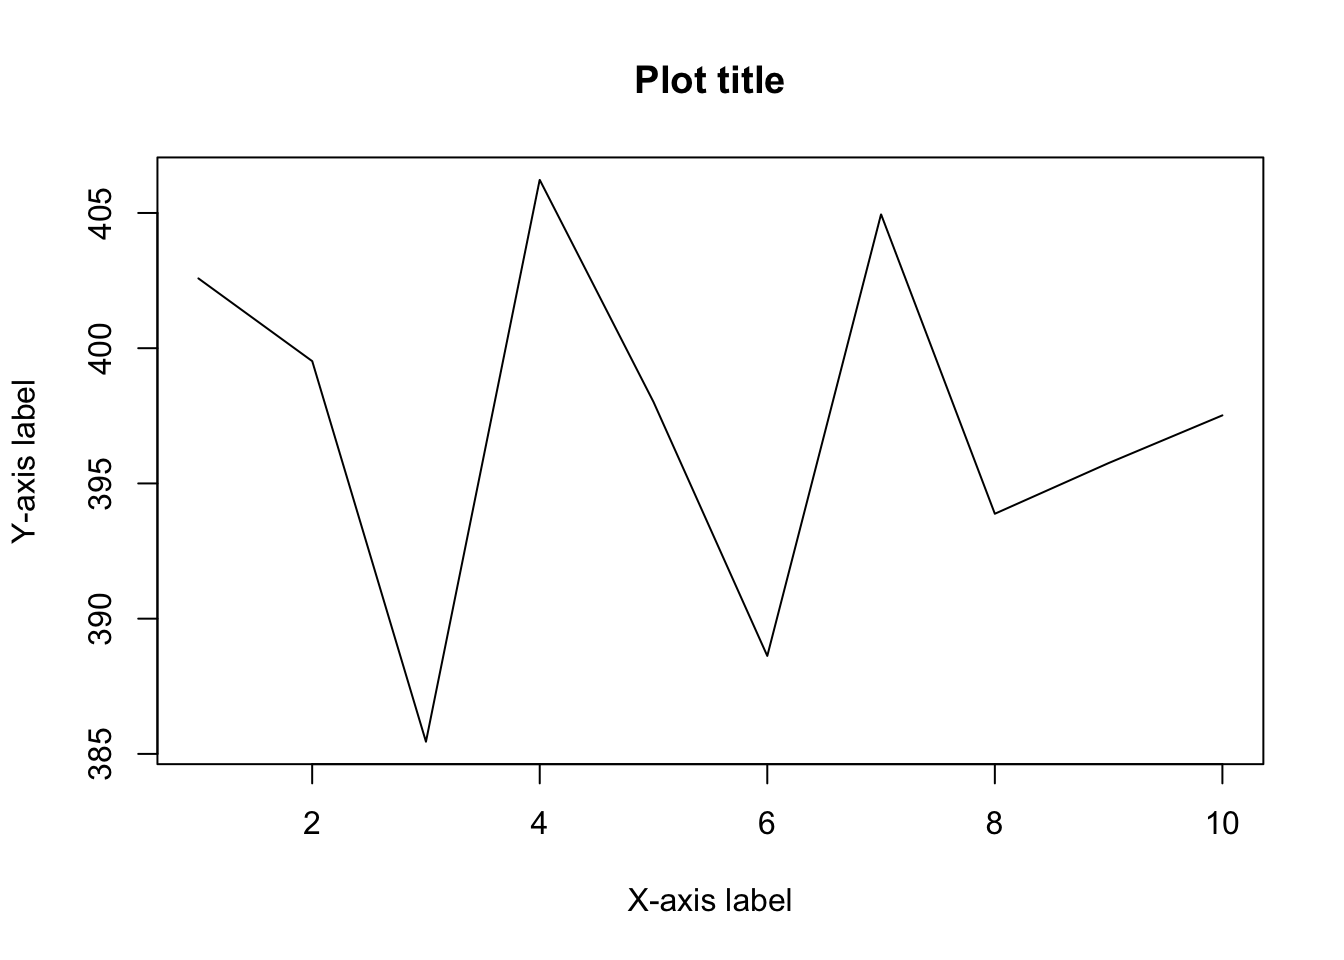
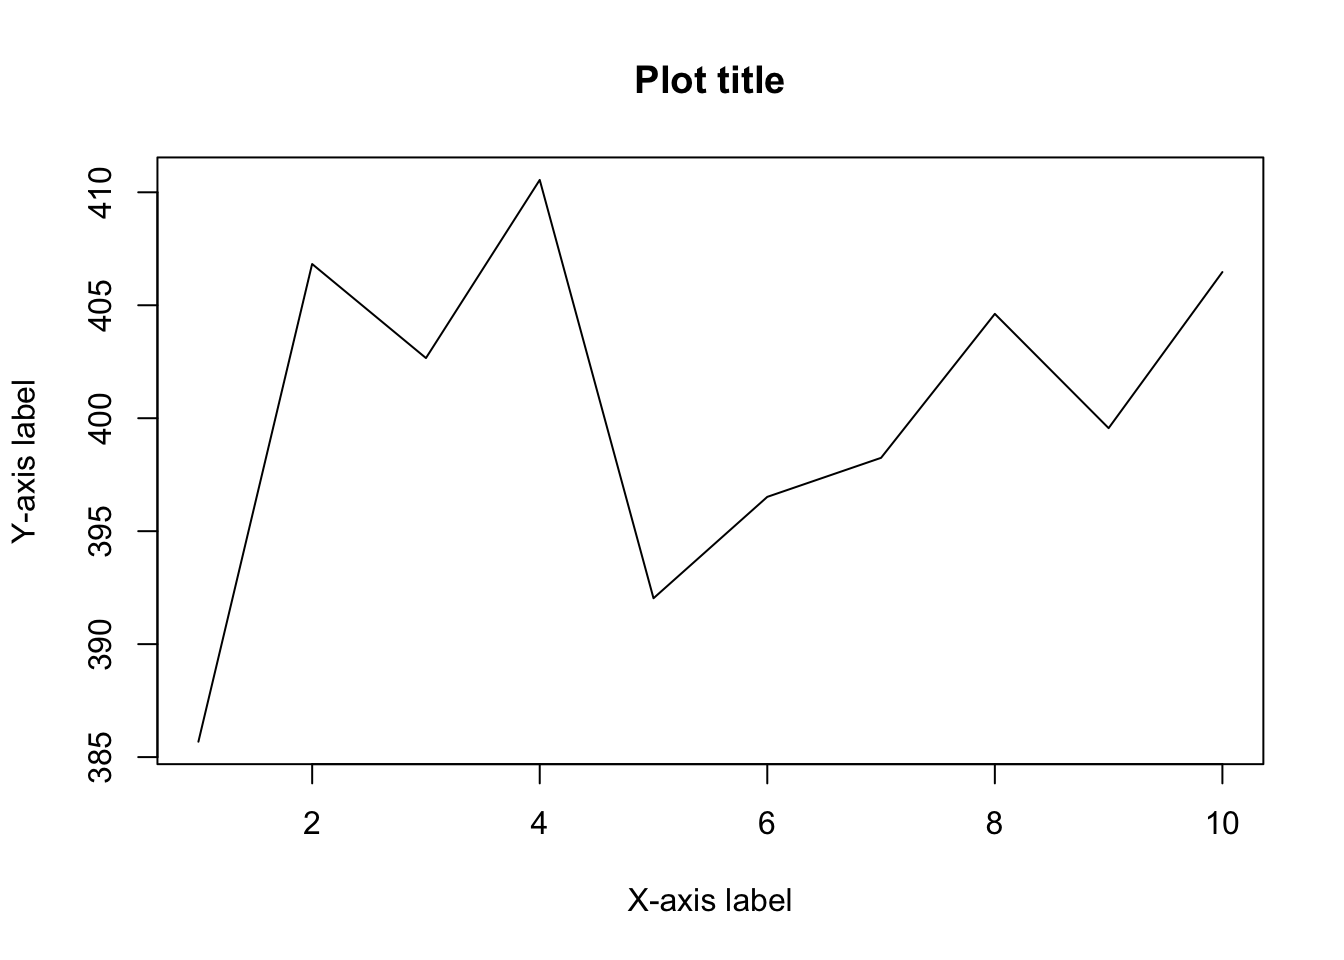
edit post

diff --git a/content/blog/how-to-install-r-and-rstudio.html b/content/blog/how-to-install-r-and-rstudio.html
@@ -61,41 +61,35 @@ output:
 <li>The environment (green pane)</li>
 <li>Files, plots, help, etc. (blue pane)</li>
 </ol>
-<div class="figure">
+<center>
 <img src="/blog/how-to-install-r-and-rstudio_files/R%20Studio.png" alt="RStudio window" />
-<p class="caption">RStudio window</p>
-</div>
+</center>
 <p>The console (red pane) is where you can execute your code (more information on the red and blue panes later). By default, the text editor does not open automatically. To open it, click on File &gt; New File &gt; R Script or click on the button representing a white sheet marked with a small green cross in the upper left corner, then on R Script:</p>
-<div class="figure">
+<center>
 <img src="/blog/how-to-install-r-and-rstudio_files/open_text_editor.png" alt="New R script in RStudio" />
-<p class="caption">New R script in RStudio</p>
-</div>
+</center>
 <p>A new pane (in orange below), also known as the text editor, opens in which you will be able to write your code. The code will be executed and the results displayed in the console (red pane).</p>
-<div class="figure">
+<center>
 <img src="/blog/how-to-install-r-and-rstudio_files/text_editor.png" alt="Write and execute your code in RStudio" />
-<p class="caption">Write and execute your code in RStudio</p>
-</div>
+</center>
 <p>Note that you can also write code in the console (red pane). However, I strongly recommend writing your code in the text editor (orange pane) because you can save the code written in the text editor (and thus execute it again later), while you cannot save the code written in the console.</p>
 <p>To execute code written in the text editor (orange pane), you have two options:</p>
 <ul>
 <li>Type your code and then press the “Run” button (see below) or use the keyboard shortcut CTRL + Enter (cmd + Enter on Mac). <strong>Only the chunk</strong> of code where your cursor is located will then be executed.</li>
 <li>Type your code and select in the text editor the part you want to execute and then press the “Run” button or use the keyboard shortcut CTRL + Enter (cmd + Enter on Mac). All the <strong>selected</strong> code will be executed</li>
 </ul>
-<div class="figure">
+<center>
 <img src="/blog/how-to-install-r-and-rstudio_files/run.png" alt="Run code in RStudio" />
-<p class="caption">Run code in RStudio</p>
-</div>
+</center>
 <p>For example, try typing <code>1+1</code> in the text editor and execute it by clicking on “Run” (or CTRL/cmd + Enter). You should see the result <code>2</code> in the console, as shown in the screenshot below:</p>
-<div class="figure">
+<center>
 <img src="/blog/how-to-install-r-and-rstudio_files/example%20of%20code%20executed%20in%20RStudio.png" alt="Example of code executed in RStudio" />
-<p class="caption">Example of code executed in RStudio</p>
-</div>
+</center>
 <p>The text editor and the console are the panes you will use most ofen. The two other panes (the blue and green panes introduced earlier) will however still be very useful when using RStudio.</p>
 <p>The environment (green pane) displays all values stored by RStudio. For example, if you type and execute the code <code>a = 1</code>, RStudio will store the value <code>1</code> for <code>a</code>, as shown in the screenshot below:</p>
-<div class="figure">
+<center>
 <img src="/blog/how-to-install-r-and-rstudio_files/environment%20pane%20in%20RStudio2.png" alt="Environment pane in RStudio" />
-<p class="caption">Environment pane in RStudio</p>
-</div>
+</center>
 <p>This means that you can now perform any computations with <code>a</code>, such that if you execute <code>a + 1</code>, RStudio will render <code>2</code> in the console. In this pane you can also see a tab with a history of the code executed and a button to import a dataset (more on <a href="/blog/how-to-import-an-excel-file-in-rstudio/">importing a dataset in RStudio</a>).</p>
 <p>The last pane (blue) is where you will find everything else such as your files, the plots, the packages, the help documentation, etc. I discuss about the Files tab in more details <a href="/blog/how-to-import-an-excel-file-in-rstudio/">here</a> so let’s discuss about the other tabs:</p>
 <ul>
@@ -103,22 +97,18 @@ output:
 <li>Packages: where you see all your installed packages. Only fundamental functionalities come with R. Everything else must be installed from packages. Remind that RStudio is open source; everyone can write code and publish it as a package. You are then able to use this package (and all functions built inside this package) for free. Some packages are installed by default, all others must be installed by running <code>install.packages(&quot;name of the package&quot;)</code> (do not forget <code>&quot;&quot;</code> around the name of the package!). Once the package is installed, you must load the package and only after it has been loaded you can use all the functions it contains. To load a package, run <code>library(name of the package)</code> (this time <code>&quot;&quot;</code> around the name of the package are not needed, but can still be used if you wish). You also have the possibility to install and load packages via the buttons under the Packages tab. For this, click on the button Install under Packages, type the name of the package you want to install and then click on Install. You will see that the code appears in the console. To load the package, find the package you want to load in the Packages window (you can use the search box), then click on the checkbox next to the name of the package. Again, the code is run in the console. See the figures below if needed. Note that you will need to install packages <strong>only once</strong>,<a href="#fn1" class="footnote-ref" id="fnref1"><sup>1</sup></a> but load packages <strong>each time</strong> you open RStudio. Furthermore, note that an internet connection is required to install a package, while it is not required to load a package</li>
 <li>Help: documentation about all functions written for R. To access the help of a function, run <code>help(&quot;name of the function&quot;)</code> or simply <code>?name of the function</code>. For example, to see the help about the mean function, run <code>?mean</code>. You can also press F1 while having your cursor on a function</li>
 </ul>
-<div class="figure">
+<center>
 <img src="/blog/how-to-install-r-and-rstudio_files/plot-buttons-rstudio.png" alt="Plot buttons in RStudio" />
-<p class="caption">Plot buttons in RStudio</p>
-</div>
-<div class="figure">
+</center>
+<center>
 <img src="/blog/how-to-install-r-and-rstudio_files/install-packages-rstudio1.png" alt="Step 1: click on the Install button" />
-<p class="caption">Step 1: click on the Install button</p>
-</div>
-<div class="figure">
+</center>
+<center>
 <img src="/blog/how-to-install-r-and-rstudio_files/install-packages-rstudio2.png" alt="Step 2: type the name of the package and click on Install" />
-<p class="caption">Step 2: type the name of the package and click on Install</p>
-</div>
-<div class="figure">
+</center>
+<center>
 <img src="/blog/how-to-install-r-and-rstudio_files/install-packages-rstudio3.png" alt="Step 3: load your package by clicking on the box next to the package’s name" />
-<p class="caption">Step 3: load your package by clicking on the box next to the package’s name</p>
-</div>
+</center>
 </div>
 <div id="examples-of-code" class="section level1">
 <h1>Examples of code</h1>
@@ -186,10 +176,10 @@ my_mat2</code></pre>
 <pre class="r"><code>my_vec &lt;- rnorm(10, mean = 400, sd = 10)
 # Display only the first 5 values:
 head(my_vec, 5)</code></pre>
-<pre><code>## [1] 402.5808 399.5225 385.4514 406.2221 398.0123</code></pre>
+<pre><code>## [1] 385.6822 406.8244 402.6629 410.5479 392.0310</code></pre>
 <pre class="r"><code># Display only the last 5 values:
 tail(my_vec, 5)</code></pre>
-<pre><code>## [1] 388.6227 404.9453 393.8786 395.7530 397.5172</code></pre>
+<pre><code>## [1] 396.5186 398.2466 404.6187 399.5605 406.4687</code></pre>
 <p>You will have different values than mines due to the fact that they are randomly generated. If you want to make sure to have always the same random values, use <code>set.seed()</code> (with any numeric inside the brackets). For instance, with the following code, you should have the exact same values, no matter where and when you run it:</p>
 <pre class="r"><code>set.seed(42)
 rnorm(3, mean = 10, sd = 2)</code></pre>

diff --git a/public/blog/how-to-install-r-and-rstudio/index.html b/public/blog/how-to-install-r-and-rstudio/index.html
@@ -198,41 +198,35 @@
 <li>The environment (green pane)</li>
 <li>Files, plots, help, etc. (blue pane)</li>
 </ol>
-<div class="figure">
+<center>
 <img src="/blog/how-to-install-r-and-rstudio_files/R%20Studio.png" alt="RStudio window" />
-<p class="caption">RStudio window</p>
-</div>
+</center>
 <p>The console (red pane) is where you can execute your code (more information on the red and blue panes later). By default, the text editor does not open automatically. To open it, click on File &gt; New File &gt; R Script or click on the button representing a white sheet marked with a small green cross in the upper left corner, then on R Script:</p>
-<div class="figure">
+<center>
 <img src="/blog/how-to-install-r-and-rstudio_files/open_text_editor.png" alt="New R script in RStudio" />
-<p class="caption">New R script in RStudio</p>
-</div>
+</center>
 <p>A new pane (in orange below), also known as the text editor, opens in which you will be able to write your code. The code will be executed and the results displayed in the console (red pane).</p>
-<div class="figure">
+<center>
 <img src="/blog/how-to-install-r-and-rstudio_files/text_editor.png" alt="Write and execute your code in RStudio" />
-<p class="caption">Write and execute your code in RStudio</p>
-</div>
+</center>
 <p>Note that you can also write code in the console (red pane). However, I strongly recommend writing your code in the text editor (orange pane) because you can save the code written in the text editor (and thus execute it again later), while you cannot save the code written in the console.</p>
 <p>To execute code written in the text editor (orange pane), you have two options:</p>
 <ul>
 <li>Type your code and then press the “Run” button (see below) or use the keyboard shortcut CTRL + Enter (cmd + Enter on Mac). <strong>Only the chunk</strong> of code where your cursor is located will then be executed.</li>
 <li>Type your code and select in the text editor the part you want to execute and then press the “Run” button or use the keyboard shortcut CTRL + Enter (cmd + Enter on Mac). All the <strong>selected</strong> code will be executed</li>
 </ul>
-<div class="figure">
+<center>
 <img src="/blog/how-to-install-r-and-rstudio_files/run.png" alt="Run code in RStudio" />
-<p class="caption">Run code in RStudio</p>
-</div>
+</center>
 <p>For example, try typing <code>1+1</code> in the text editor and execute it by clicking on “Run” (or CTRL/cmd + Enter). You should see the result <code>2</code> in the console, as shown in the screenshot below:</p>
-<div class="figure">
+<center>
 <img src="/blog/how-to-install-r-and-rstudio_files/example%20of%20code%20executed%20in%20RStudio.png" alt="Example of code executed in RStudio" />
-<p class="caption">Example of code executed in RStudio</p>
-</div>
+</center>
 <p>The text editor and the console are the panes you will use most ofen. The two other panes (the blue and green panes introduced earlier) will however still be very useful when using RStudio.</p>
 <p>The environment (green pane) displays all values stored by RStudio. For example, if you type and execute the code <code>a = 1</code>, RStudio will store the value <code>1</code> for <code>a</code>, as shown in the screenshot below:</p>
-<div class="figure">
+<center>
 <img src="/blog/how-to-install-r-and-rstudio_files/environment%20pane%20in%20RStudio2.png" alt="Environment pane in RStudio" />
-<p class="caption">Environment pane in RStudio</p>
-</div>
+</center>
 <p>This means that you can now perform any computations with <code>a</code>, such that if you execute <code>a + 1</code>, RStudio will render <code>2</code> in the console. In this pane you can also see a tab with a history of the code executed and a button to import a dataset (more on <a href="/blog/how-to-import-an-excel-file-in-rstudio/">importing a dataset in RStudio</a>).</p>
 <p>The last pane (blue) is where you will find everything else such as your files, the plots, the packages, the help documentation, etc. I discuss about the Files tab in more details <a href="/blog/how-to-import-an-excel-file-in-rstudio/">here</a> so let’s discuss about the other tabs:</p>
 <ul>
@@ -240,22 +234,18 @@
 <li>Packages: where you see all your installed packages. Only fundamental functionalities come with R. Everything else must be installed from packages. Remind that RStudio is open source; everyone can write code and publish it as a package. You are then able to use this package (and all functions built inside this package) for free. Some packages are installed by default, all others must be installed by running <code>install.packages(&quot;name of the package&quot;)</code> (do not forget <code>&quot;&quot;</code> around the name of the package!). Once the package is installed, you must load the package and only after it has been loaded you can use all the functions it contains. To load a package, run <code>library(name of the package)</code> (this time <code>&quot;&quot;</code> around the name of the package are not needed, but can still be used if you wish). You also have the possibility to install and load packages via the buttons under the Packages tab. For this, click on the button Install under Packages, type the name of the package you want to install and then click on Install. You will see that the code appears in the console. To load the package, find the package you want to load in the Packages window (you can use the search box), then click on the checkbox next to the name of the package. Again, the code is run in the console. See the figures below if needed. Note that you will need to install packages <strong>only once</strong>,<a href="#fn1" class="footnote-ref" id="fnref1"><sup>1</sup></a> but load packages <strong>each time</strong> you open RStudio. Furthermore, note that an internet connection is required to install a package, while it is not required to load a package</li>
 <li>Help: documentation about all functions written for R. To access the help of a function, run <code>help(&quot;name of the function&quot;)</code> or simply <code>?name of the function</code>. For example, to see the help about the mean function, run <code>?mean</code>. You can also press F1 while having your cursor on a function</li>
 </ul>
-<div class="figure">
+<center>
 <img src="/blog/how-to-install-r-and-rstudio_files/plot-buttons-rstudio.png" alt="Plot buttons in RStudio" />
-<p class="caption">Plot buttons in RStudio</p>
-</div>
-<div class="figure">
+</center>
+<center>
 <img src="/blog/how-to-install-r-and-rstudio_files/install-packages-rstudio1.png" alt="Step 1: click on the Install button" />
-<p class="caption">Step 1: click on the Install button</p>
-</div>
-<div class="figure">
+</center>
+<center>
 <img src="/blog/how-to-install-r-and-rstudio_files/install-packages-rstudio2.png" alt="Step 2: type the name of the package and click on Install" />
-<p class="caption">Step 2: type the name of the package and click on Install</p>
-</div>
-<div class="figure">
+</center>
+<center>
 <img src="/blog/how-to-install-r-and-rstudio_files/install-packages-rstudio3.png" alt="Step 3: load your package by clicking on the box next to the package’s name" />
-<p class="caption">Step 3: load your package by clicking on the box next to the package’s name</p>
-</div>
+</center>
 </div>
 <div id="examples-of-code" class="section level1">
 <h1>Examples of code</h1>
@@ -323,10 +313,10 @@ my_mat2</code></pre>
 <pre class="r"><code>my_vec &lt;- rnorm(10, mean = 400, sd = 10)
 # Display only the first 5 values:
 head(my_vec, 5)</code></pre>
-<pre><code>## [1] 402.5808 399.5225 385.4514 406.2221 398.0123</code></pre>
+<pre><code>## [1] 385.6822 406.8244 402.6629 410.5479 392.0310</code></pre>
 <pre class="r"><code># Display only the last 5 values:
 tail(my_vec, 5)</code></pre>
-<pre><code>## [1] 388.6227 404.9453 393.8786 395.7530 397.5172</code></pre>
+<pre><code>## [1] 396.5186 398.2466 404.6187 399.5605 406.4687</code></pre>
 <p>You will have different values than mines due to the fact that they are randomly generated. If you want to make sure to have always the same random values, use <code>set.seed()</code> (with any numeric inside the brackets). For instance, with the following code, you should have the exact same values, no matter where and when you run it:</p>
 <pre class="r"><code>set.seed(42)
 rnorm(3, mean = 10, sd = 2)</code></pre>

diff --git a/content/blog/do-my-data-follow-a-normal-distribution-a-note-on-the-most-widely-used-distribution-and-how-to-test-for-normality-in-r.html b/content/blog/do-my-data-follow-a-normal-distribution-a-note-on-the-most-widely-used-distribution-and-how-to-test-for-normality-in-r.html
@@ -75,7 +75,7 @@ bibliography: bibliography.bib
 </ol>
 <p>We actually look for the shaded area in the following figure:</p>
 <center>
-<img src="/blog/do-my-data-follow-a-normal-distribution-a-note-on-the-most-widely-used-distribution-and-how-to-test-for-normality-in-r_files/Screenshot%202020-01-30%20at%2014.18.54.png" alt="Standard normal distribution: P(Z &gt; 1)" />
+<img src="/blog/do-my-data-follow-a-normal-distribution-a-note-on-the-most-widely-used-distribution-and-how-to-test-for-normality-in-r_files/Screenshot%202020-01-30%20at%2014.18.54.png" alt="Standard normal distribution: P(Z &gt; 1)" style="width:100.0%" />
 </center>
 <p><strong>In R:</strong></p>
 <pre class="r"><code>pnorm(1,
@@ -89,7 +89,7 @@ bibliography: bibliography.bib
 </ol>
 <p>We are looking for the shaded area in the following figure:</p>
 <center>
-<img src="/blog/do-my-data-follow-a-normal-distribution-a-note-on-the-most-widely-used-distribution-and-how-to-test-for-normality-in-r_files/Screenshot%202020-01-30%20at%2014.19.14.png" alt="Standard normal distribution: P(−1 \le Z \le 1)" />
+<img src="/blog/do-my-data-follow-a-normal-distribution-a-note-on-the-most-widely-used-distribution-and-how-to-test-for-normality-in-r_files/Screenshot%202020-01-30%20at%2014.19.14.png" alt="Standard normal distribution: P(−1 \le Z \le 1)" style="width:100.0%" />
 </center>
 <p><strong>In R:</strong></p>
 <pre class="r"><code>pnorm(1, lower.tail = TRUE) - pnorm(-1, lower.tail = TRUE)</code></pre>
@@ -100,7 +100,7 @@ bibliography: bibliography.bib
 </ol>
 <p>We are looking for the shaded area in the following figure:</p>
 <center>
-<img src="/blog/do-my-data-follow-a-normal-distribution-a-note-on-the-most-widely-used-distribution-and-how-to-test-for-normality-in-r_files/Screenshot%202020-01-30%20at%2014.19.46.png" alt="Standard normal distribution: P(0 \le Z \le 1.37)" />
+<img src="/blog/do-my-data-follow-a-normal-distribution-a-note-on-the-most-widely-used-distribution-and-how-to-test-for-normality-in-r_files/Screenshot%202020-01-30%20at%2014.19.46.png" alt="Standard normal distribution: P(0 \le Z \le 1.37)" style="width:100.0%" />
 </center>
 <p><strong>In R:</strong></p>
 <pre class="r"><code>pnorm(0, lower.tail = FALSE) - pnorm(1.37, lower.tail = FALSE)</code></pre>

diff --git a/public/blog/do-my-data-follow-a-normal-distribution-a-note-on-the-most-widely-used-distribution-and-how-to-test-for-normality-in-r/index.html b/public/blog/do-my-data-follow-a-normal-distribution-a-note-on-the-most-widely-used-distribution-and-how-to-test-for-normality-in-r/index.html
@@ -212,7 +212,7 @@
 </ol>
 <p>We actually look for the shaded area in the following figure:</p>
 <center>
-<img src="/blog/do-my-data-follow-a-normal-distribution-a-note-on-the-most-widely-used-distribution-and-how-to-test-for-normality-in-r_files/Screenshot%202020-01-30%20at%2014.18.54.png" alt="Standard normal distribution: P(Z &gt; 1)" />
+<img src="/blog/do-my-data-follow-a-normal-distribution-a-note-on-the-most-widely-used-distribution-and-how-to-test-for-normality-in-r_files/Screenshot%202020-01-30%20at%2014.18.54.png" alt="Standard normal distribution: P(Z &gt; 1)" style="width:100.0%" />
 </center>
 <p><strong>In R:</strong></p>
 <pre class="r"><code>pnorm(1,
@@ -226,7 +226,7 @@
 </ol>
 <p>We are looking for the shaded area in the following figure:</p>
 <center>
-<img src="/blog/do-my-data-follow-a-normal-distribution-a-note-on-the-most-widely-used-distribution-and-how-to-test-for-normality-in-r_files/Screenshot%202020-01-30%20at%2014.19.14.png" alt="Standard normal distribution: P(−1 \le Z \le 1)" />
+<img src="/blog/do-my-data-follow-a-normal-distribution-a-note-on-the-most-widely-used-distribution-and-how-to-test-for-normality-in-r_files/Screenshot%202020-01-30%20at%2014.19.14.png" alt="Standard normal distribution: P(−1 \le Z \le 1)" style="width:100.0%" />
 </center>
 <p><strong>In R:</strong></p>
 <pre class="r"><code>pnorm(1, lower.tail = TRUE) - pnorm(-1, lower.tail = TRUE)</code></pre>
@@ -237,7 +237,7 @@
 </ol>
 <p>We are looking for the shaded area in the following figure:</p>
 <center>
-<img src="/blog/do-my-data-follow-a-normal-distribution-a-note-on-the-most-widely-used-distribution-and-how-to-test-for-normality-in-r_files/Screenshot%202020-01-30%20at%2014.19.46.png" alt="Standard normal distribution: P(0 \le Z \le 1.37)" />
+<img src="/blog/do-my-data-follow-a-normal-distribution-a-note-on-the-most-widely-used-distribution-and-how-to-test-for-normality-in-r_files/Screenshot%202020-01-30%20at%2014.19.46.png" alt="Standard normal distribution: P(0 \le Z \le 1.37)" style="width:100.0%" />
 </center>
 <p><strong>In R:</strong></p>
 <pre class="r"><code>pnorm(0, lower.tail = FALSE) - pnorm(1.37, lower.tail = FALSE)</code></pre>

diff --git a/content/blog/how-to-import-an-excel-file-in-rstudio.html b/content/blog/how-to-import-an-excel-file-in-rstudio.html
@@ -123,10 +123,9 @@ output:
 <li>via the text editor (see also below why it is my preferred option)</li>
 </ol>
 <p>No matter which method you choose, it is a good practice to first open your file in TextEdit (on Mac) or Notepad (on Windows) in order to see the raw data. If you open the file in Excel you will see the data already formatted and thus miss some important information needed for the importation. Below an example of raw data:</p>
-<div class="figure">
-<img src="/blog/how-to-import-an-excel-file-in-rstudio_files/raw-data3.png" alt="Example of raw data" />
-<p class="caption">Example of raw data</p>
-</div>
+<center>
+<img src="/blog/how-to-import-an-excel-file-in-rstudio_files/raw-data3.png" alt="Example of raw data" style="width:100.0%" />
+</center>
 <p>There are a few things we need to look for in order to properly import our dataset:</p>
 <ul>
 <li>Are the variables names present?</li>

diff --git a/public/blog/how-to-import-an-excel-file-in-rstudio/index.html b/public/blog/how-to-import-an-excel-file-in-rstudio/index.html
@@ -260,10 +260,9 @@
 <li>via the text editor (see also below why it is my preferred option)</li>
 </ol>
 <p>No matter which method you choose, it is a good practice to first open your file in TextEdit (on Mac) or Notepad (on Windows) in order to see the raw data. If you open the file in Excel you will see the data already formatted and thus miss some important information needed for the importation. Below an example of raw data:</p>
-<div class="figure">
-<img src="/blog/how-to-import-an-excel-file-in-rstudio_files/raw-data3.png" alt="Example of raw data" />
-<p class="caption">Example of raw data</p>
-</div>
+<center>
+<img src="/blog/how-to-import-an-excel-file-in-rstudio_files/raw-data3.png" alt="Example of raw data" style="width:100.0%" />
+</center>
 <p>There are a few things we need to look for in order to properly import our dataset:</p>
 <ul>
 <li>Are the variables names present?</li>
